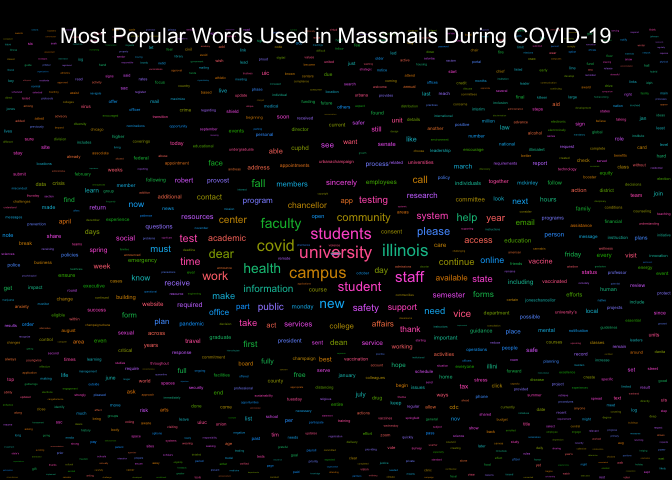
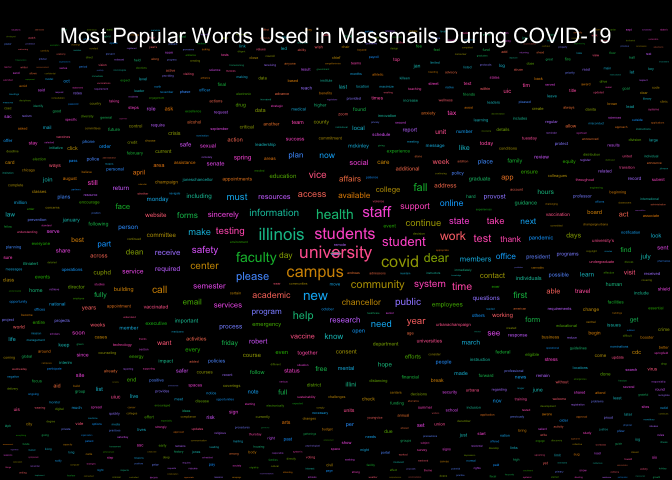
Re-build README.Rmd and Graphs

Changed region(s): [[0.0, 0.0625, 1.0, 1.0]]

diff --git a/README.md b/README.md
@@ -17,7 +17,7 @@ The archive may be viewed here:
 
 <https://massmail.illinois.edu/massmailArchive>
 
-Data has **777** observations and **7** variables:
+Data has **778** observations and **7** variables:
 
 - `datetime`: Date and time when the email was sent in the form of
   `YYYY-MM-DD HMS` with either CDT or CST.
@@ -213,13 +213,13 @@ head(most_popular_words, 10) %>%
 | university | 2181 |
 | students   | 1825 |
 | campus     | 1624 |
-| illinois   | 1462 |
+| illinois   | 1463 |
 | covid      | 1070 |
 | student    | 1061 |
 | faculty    | 1058 |
 | community  | 1005 |
 | health     |  999 |
-| staff      |  903 |
+| staff      |  904 |
 
 #### Wordcloud
 
